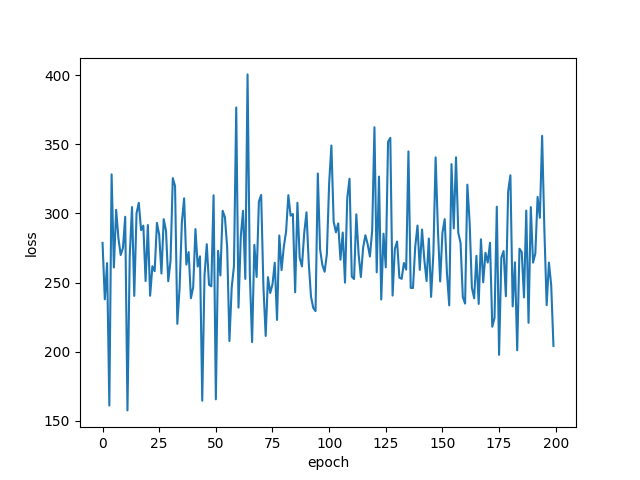
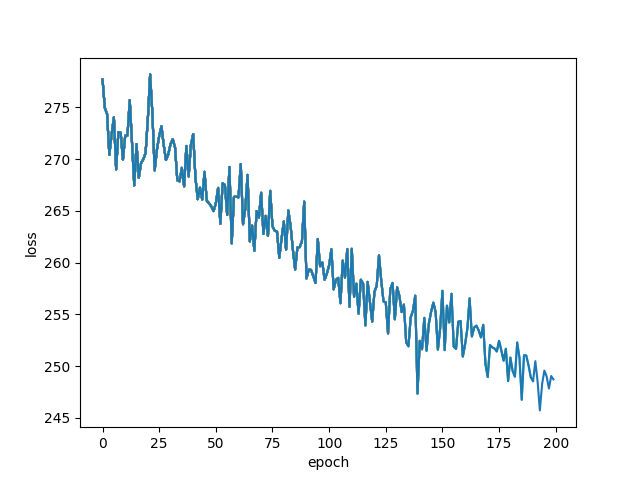
first experiment for training inv reward is runnning

diff --git a/scripts/train_inv_reward.py b/scripts/train_inv_reward.py
@@ -84,40 +84,49 @@ inv_policy_config = utils.Config(
 inv_policy = inv_policy_config()
 
 #---------------------------------- main loop ----------------------------------#
-observation = env.reset_to_location((1, 1))
-
-if args.conditional:
-    print('Resetting target')
-    env.set_target()
-
-## observations for rendering
-rollout = [observation.copy()]
-
-total_reward = 0
-
-conditions = {0: observation}
 
 #generating exp Trajectories
-exp_trajectory = load_exp_trajectories()
+exp_trajectories = load_exp_trajectories()
 
 
 
-optimiser = torch.optim.Adam(inv_guide.parameters(), lr=0.001)
+optimiser = torch.optim.Adam(inv_guide.parameters(), lr=2e-4)
 
 losses = []
+K = 10
 
 for epoch in range(200):
-    for exp_trajectory in load_exp_trajectories:
-        len
-        # optimiser.zero_grad()
-        # _, _, sampled_trajectory = inv_policy(conditions, batch_size=args.batch_size, verbose=args.verbose, return_tensor = True)
+    print(f'epoch: {epoch}')
+    epoch_loss = 0
+    for exp_trajectory in exp_trajectories:
+        exp_trajectory_len = exp_trajectory.shape[1]
+        for t in range(exp_trajectory_len):
+            if t % K == 0:
+                optimiser.zero_grad()
+                clipped_exp_trajectory = exp_trajectory[:,t:t+K, :]
+                first_observation = clipped_exp_trajectory[0, 0, :4].reshape((4)).detach().numpy()
 
-        # loss = torch.sum(torch.square(exp_trajectory - sampled_trajectory))
+                conditions = {0: first_observation}
+                _, _, sampled_trajectory = inv_policy(conditions, batch_size=args.batch_size, verbose=args.verbose, return_tensor = True)
+                clipped_sampled_trajectory = sampled_trajectory[:,:K,:]
 
-        # loss.backward(retain_graph=True)
-        # optimiser.step()
+                loss = torch.sum(torch.square(clipped_exp_trajectory - clipped_sampled_trajectory)) / (K*6)
 
-        # losses.append(loss.detach())
+                loss.backward()
+                optimiser.step()
+
+
+
+                epoch_loss += loss.detach()
+    print(epoch_loss)
+    losses.append(epoch_loss)
+
+    if epoch % 10 == 0:
+        plt.plot(losses)
+        plt.ylabel('loss')
+        plt.xlabel('epoch')
+        plt.savefig('loss.png')
+
 
 plt.plot(losses)
 plt.ylabel('loss')
@@ -162,7 +171,6 @@ for t in range(env.max_episode_steps):
 
     observation = next_observation
 
-print('pippo')
 print(join(args.savepath, 'rollout.png'))
 renderer.composite(join(args.savepath, 'rollout_inv.png'), np.array(rollout)[None], ncol=1)
 

diff --git a/diffuser/models/temporal.py b/diffuser/models/temporal.py
@@ -246,8 +246,4 @@ class ValueFunction(nn.Module):
 
         x = x.view(len(x), -1)
         out = self.final_block(torch.cat([x, t], dim=-1))
-        print('\nPippo\n')
-        print(out)
-        print(out.shape)
-        print('\nPippo\n')
         return out
